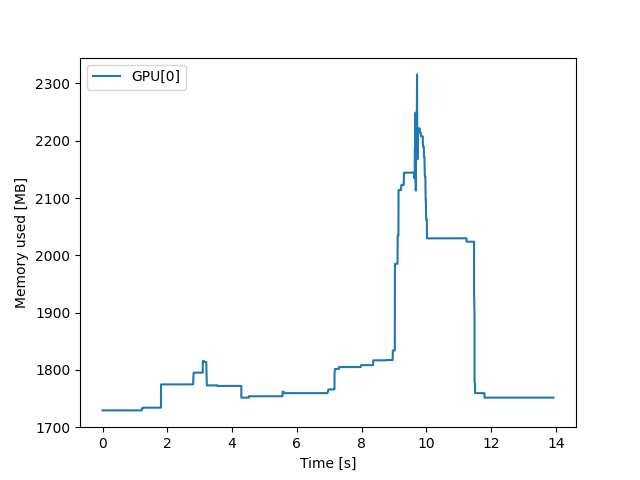
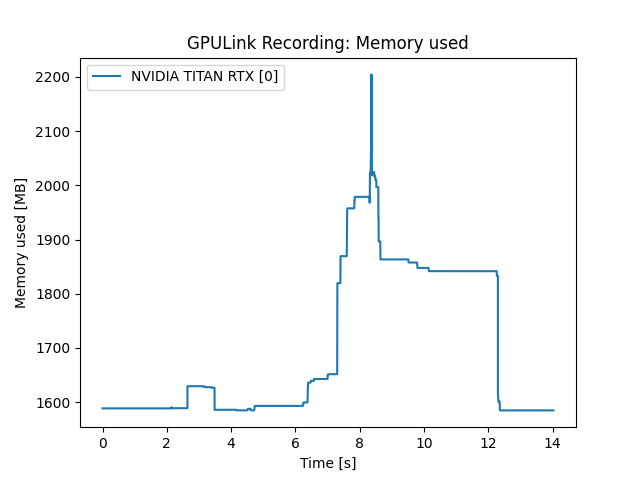
Update README.md

diff --git a/gpulink/plot.py b/gpulink/plot.py
@@ -29,7 +29,7 @@ class Plot:
         ax.set_ylabel(f"{self._recording.type.value[0]} [{self._recording.type.value[1].name}]")
         ax.set_xlabel("Time [s]")
 
-    def generate_graph(self, scale_y_axis) -> Tuple[Figure, Axis]:
+    def generate_graph(self, scale_y_axis=False) -> Tuple[Figure, Axis]:
         """
         Generates the plot.
         :param scale_y_axis: Scale y-axis to the actual value range. E.g. in case of plotting memory consumption this

diff --git a/README.md b/README.md
@@ -1,79 +1,110 @@
 # gpulink
 
-A library for monitoring and displaying NVIDIA GPU stats. For this purpose
-**gpulink** provides classes for data recording and plotting, targeting different GPU stats (e.g. memory consumption).
-**gpulink** makes use of [pynvml](https://github.com/gpuopenanalytics/pynvml) - a Python wrapper for
+A library for monitoring and displaying NVIDIA GPU stats. **gpulink** uses
+[pynvml](https://github.com/gpuopenanalytics/pynvml) - a Python wrapper for
 the [NVIDIA Management Library](https://developer.nvidia.com/nvidia-management-library-nvml) (NVML).
 
-| Feature        | Status | Notes |
-|----------------|--------|-------|
-| MemoryRecorder | ✅      |       |
-| MemoryPlotter  | ✅      |       |
+## Current status
+**⚠!!! This project is under heavy development !!!⚠**
 
-During installation, **gpulink** also registers a command-line script accessible through the `gpulink` command.
+## Installation
+### Installation using PIP
+To install **gpulink** using the Python Package Manager (PIP) run:  
+```pip install gpulink```
+
+**gpulink** can also be used from source. Here perform the following steps to create a Python environment and to 
+install the requirements:
+1. Create an environment: `python -m venv env`
+2. Activate the environment: `.\env\Scripts\Activate`
+3. Install requirements: `pip install -r requirements.txt`
+
+## Usage
+**gpulink** can be used as a library as well as from the command line.
 
 ## Library usage
 
-To integrate **gpulink** to a Python script, import `gpulink` and create an `NVContext`. This context manages the creation and
-destruction of the nvml session and provides several utility functions:
+To integrate **gpulink** to a Python script, import `gpulink` and create an `NVContext`. This context manages the
+creation and destruction of the nvml session and provides several query and utility functions (see [API example](example/example_api.py)):  
 
 ```
 import gpulink as gpu
 
 with gpu.NVContext() as ctx:
+   print(f"Available GPUs: {ctx.gpu_names}")
+   memory_information = ctx.get_memory_info(ctx.gpus)
+   ...
 ```
-
-Every subsequent **gpulink** call (e.g. instantiation of a data recorder) must be made within this context. The context
-provides also additional information, i.e. about the numbers and names of compatible GPU devices:
-
-```
-    print(f"Available GPUs: {ctx.gpu_names}")
-```
-
-**gpulink** provides data recorders (e.g. `MemoryRecorder`) for capturing and storing GPU stats and plotters (e.g.
-`MemoryPlotter`) for rendering these:
+**gpulink** provides a [Recorder](gpulink/recorder.py) class for recording several GPU properties. An instance of this
+class mst be created using one of the factory methods, e.g.:  
 
 ```
-    recorder = gpu.MemoryRecorder(ctx)
-    mem_info = recorder.record(store=False)
+    recorder = gpu.Recorder.create_memory_recorder(ctx, ctx.gpus)
+    recorder.start()
+    ... # Do some GPU stuff
+    recorder.stop(auto_join=True)
+```
+One a recording is finished, the data can be accessed:  
+```
+recording = recording = recorder.get_recording()
+```
 
-    for _ in range(5):  # Record memory information over time
-        recorder.record()
-
-    records = recorder.get_records()
-    for rec in records:
-        print(f"Sampling rate: {rec.sampling_rate}")
-        print(f"Recording duration: {rec.duration}")
-        print(f"Number of records: {rec.len}")
-        print(rec)
-
-    graph = gpu.MemoryPlotter(records)
-    graph.draw_graph()
+**gpulink** provides a [Plot](gpulink/plot.py) class for visualizing recordings using [matplotlib](https://matplotlib.org/):
+```
+    from pathlib import Path
+    
+    plot = gpu.Plot(recording)
+    plot.plot(scale_y_axis=True)
+    plot.save(Path("memory.png"), scale_y_axis=True)
+    
+    figure, axis = plot.generate_graph()  # The generated Figure and Axis can also be accessed directly.
 ```
 
 ## Command-line usage
+During installation, **gpulink** also registers a command-line script accessible through the `gpulink` command.
 
 ```
-usage: gpu-link.py [-h] [-o OUTPUT]
+usage: gpulink [-h] {sensors,record} ...
 
-GPU-Link memory tracing
+GPU-Link: Monitor NVIDIA GPU status
+
+positional arguments:
+  {sensors,record}
 
 optional arguments:
-  -h, --help            show this help message and exit
-  -o OUTPUT, --output OUTPUT
-                        Path to memory graph plot.
+  -h, --help        show this help message and exit
 ```
 
-### Example
-1. Run recording  
-(a) Installed from source: `python -m gpulink -o memory_consumption.png`  
-(b) Installed using pip: `gpulink -o memory_consumption.png`
-2. Stop recording *Ctrl+C*
-3. Plot is saved to `memory_consumption.png`.
+### Examples
 
-### Output
+- View GPU sensor status: `gpulink sensors` 
 ```
-NVIDIA TITAN RTX[0] -> memory used: min=1729.236992[MB] / max=2315.79648[MB]
+╒════════╤═════════════════════╤═════════════╤═════════════════╤═══════════════╕
+│ GPU    │ Memory [MB]         │   Temp [°C] │   Fan speed [%] │ Clock [MHz]   │
+╞════════╪═════════════════════╪═════════════╪═════════════════╪═══════════════╡
+│ GPU[0] │ 1588 / 25769 (6.2%) │          34 │              41 │ Graph.: 173   │
+│        │                     │             │                 │ Memory: 403   │
+│        │                     │             │                 │ SM: 173       │
+│        │                     │             │                 │ Video: 539    │
+╘════════╧═════════════════════╧═════════════╧═════════════════╧═══════════════╛
+```
+
+- Record gpu memory information and save a plot as PNG: `gpulink record -o memory.png`
+#### View GPU sensor status
+##### Command:
+`gpulink sensors` 
+### Output:
+```
+╒═════════════════════╤═════════════════╕
+│ Record duration [s] │ Frame rate [Hz] │
+├─────────────────────┼─────────────────┤
+│ 14.0294178          │ 235             │
+╘═════════════════════╧═════════════════╛
+╒═════╤══════════════════╤══════════════════════╕
+│ GPU │ Name             │ Memory used [MB]     │
+├─────┼──────────────────┼──────────────────────┤
+│ 0   │ NVIDIA TITAN RTX │ minimum: 1584.754688 │
+│     │                  │ maximum: 2204.585984 │
+╘═════╧══════════════════╧══════════════════════╛
 ```
 
 ![Memory consumption over time](./docs/mem_consumption.png)
